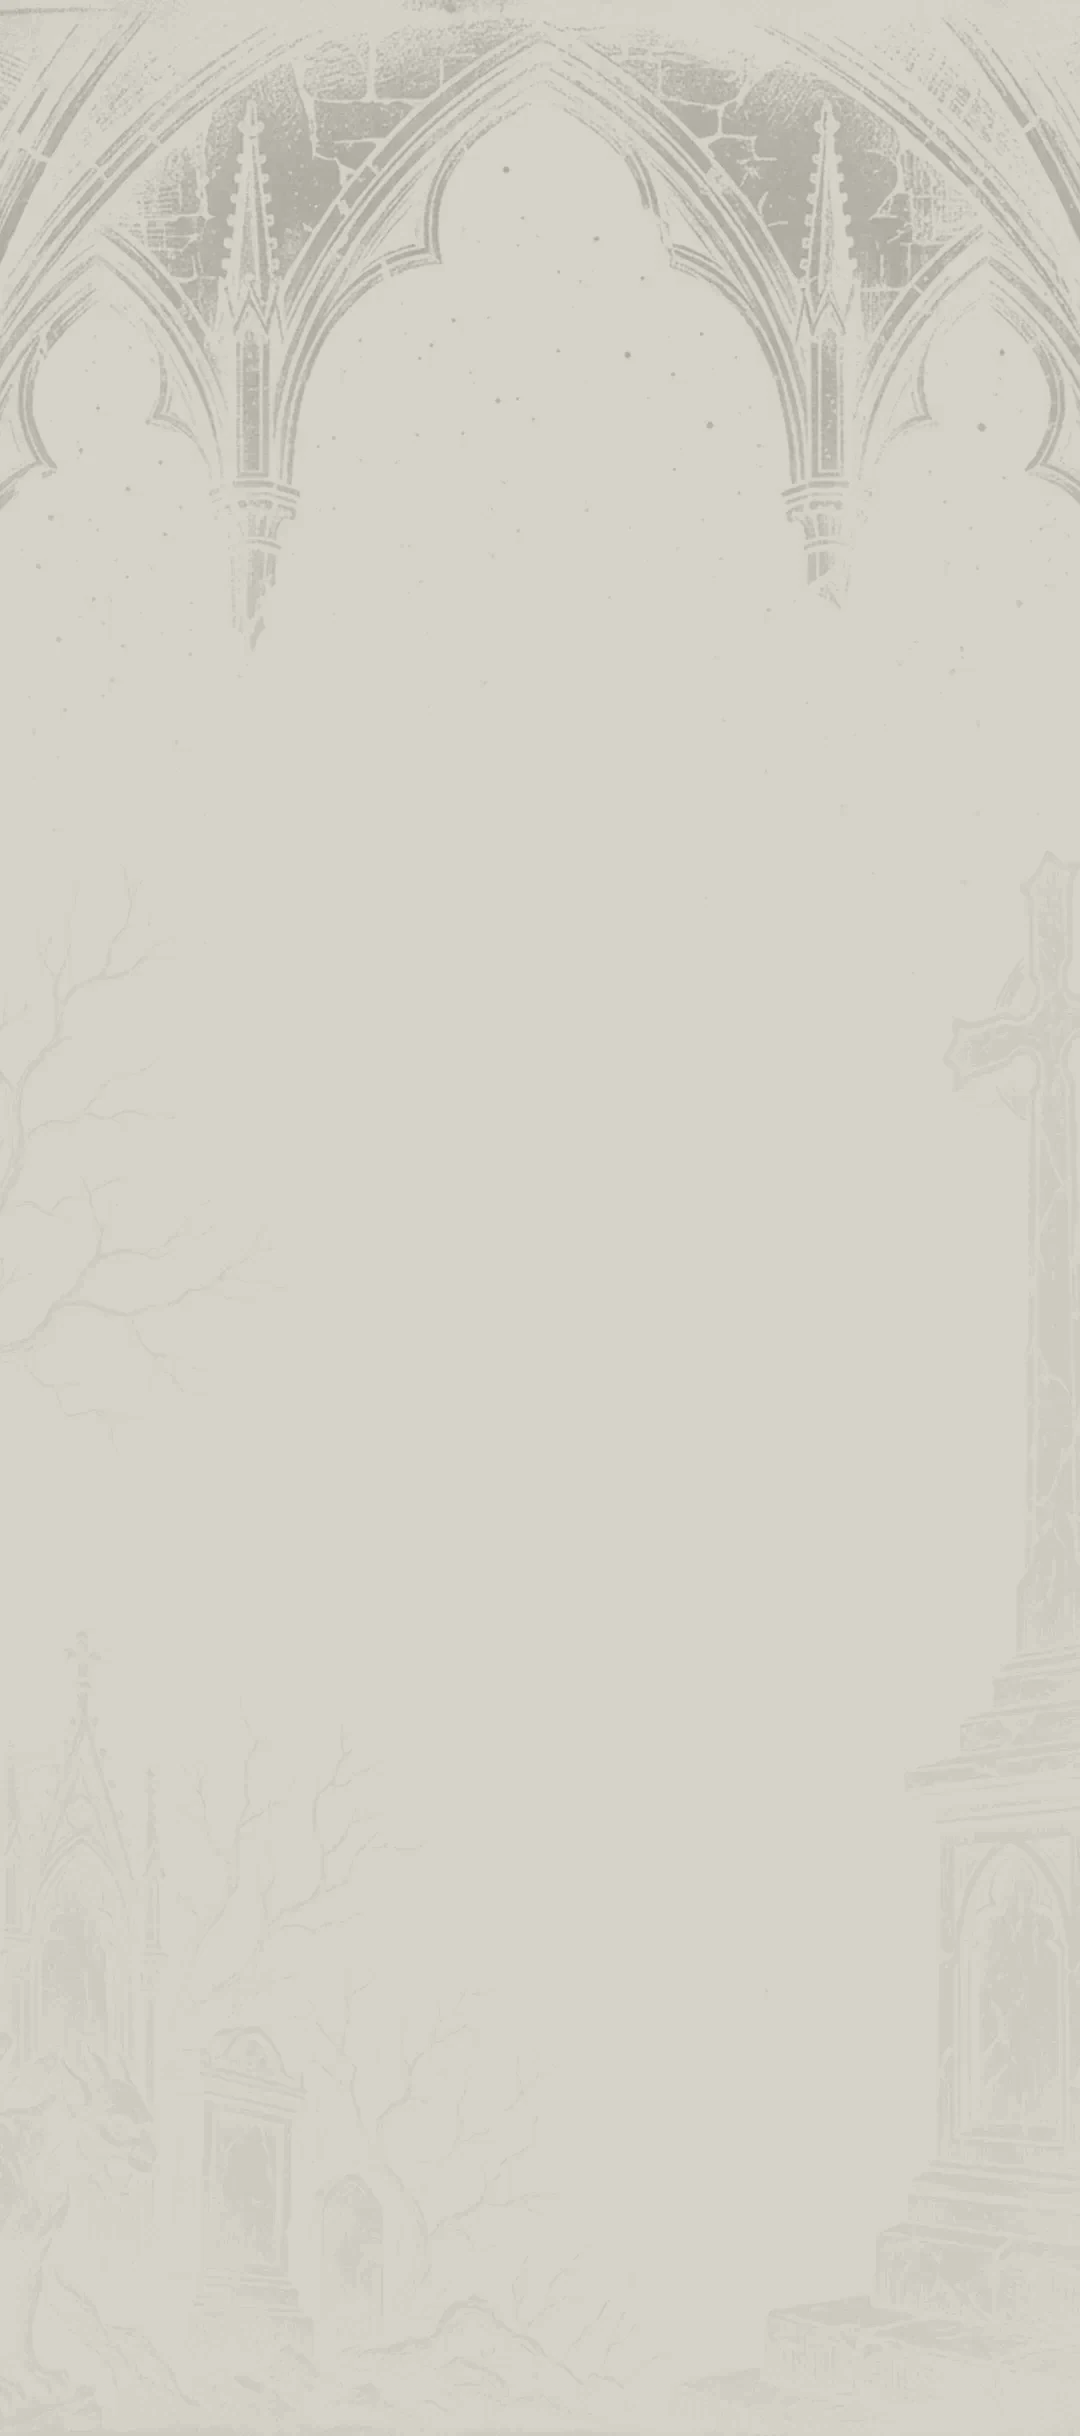
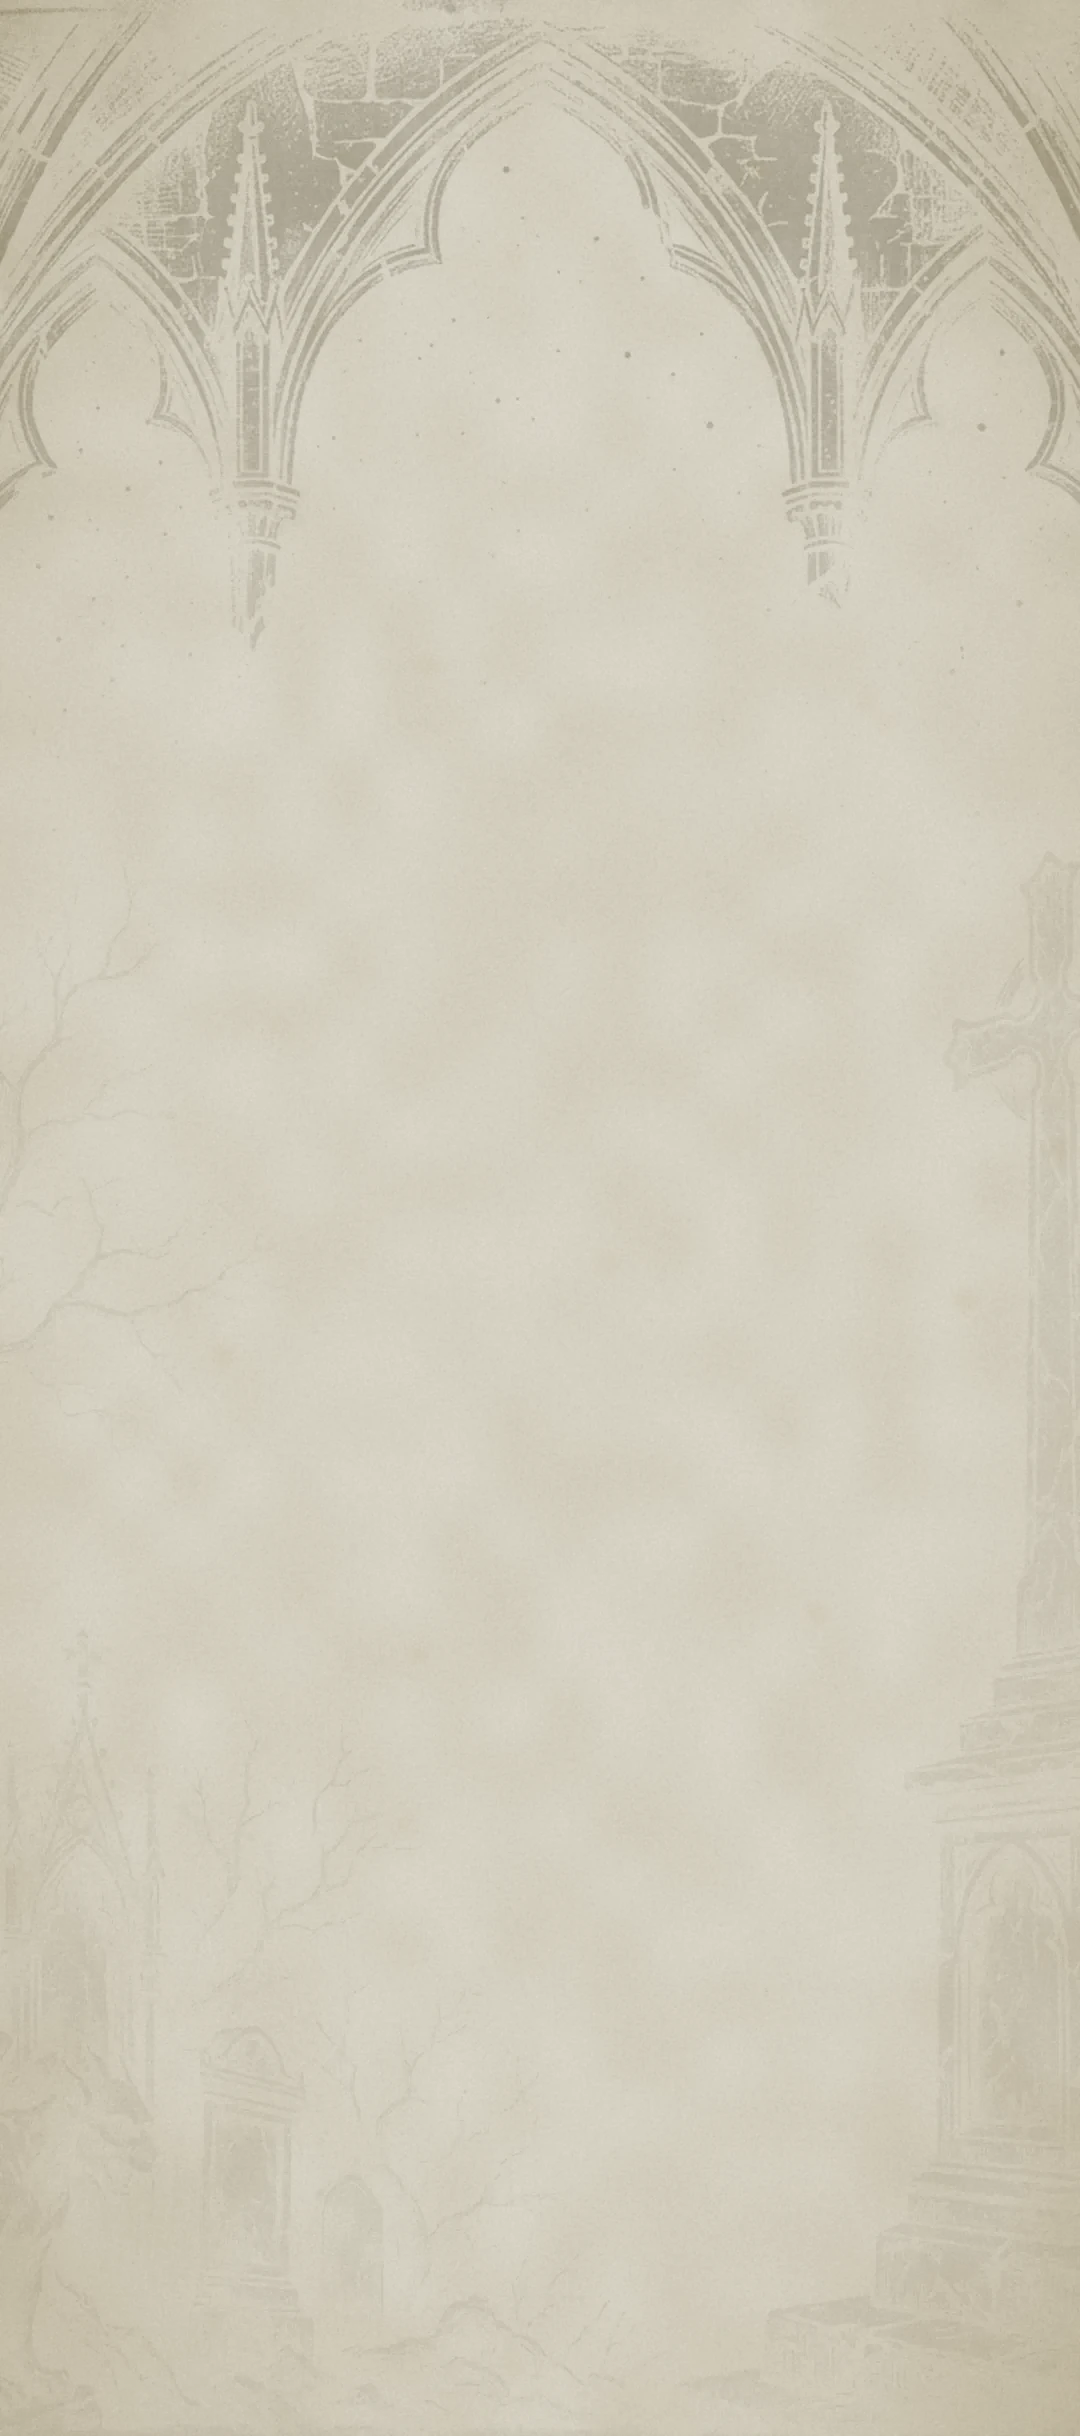
Player artists come up in a sheet; Satanic light pages are old paper
Several artists on the Satanic or Gothic player: a tap brings up a sheet of
them, top to bottom as in the line, each with a picture, opening the one
tapped (the catalog's artist, not always the first YouTube one). One artist
still opens at once.

Light Satanic: the paper a little yellower, and the background pictures are
old paper now — an uneven tone, browned edges, grain, a few foxing spots. The
bare tree over the player's "previous" button is gone.

diff --git a/app/src/main/kotlin/com/metrolist/music/ui/player/ArtistsSheet.kt b/app/src/main/kotlin/com/metrolist/music/ui/player/ArtistsSheet.kt
@@ -1,0 +1,128 @@
+/**
+ * Metrolist Project (C) 2026
+ * Licensed under GPL-3.0 | See git history for contributors
+ */
+
+package com.metrolist.music.ui.player
+
+import androidx.compose.foundation.background
+import androidx.compose.foundation.clickable
+import androidx.compose.foundation.layout.Box
+import androidx.compose.foundation.layout.Column
+import androidx.compose.foundation.layout.Row
+import androidx.compose.foundation.layout.Spacer
+import androidx.compose.foundation.layout.fillMaxWidth
+import androidx.compose.foundation.layout.navigationBarsPadding
+import androidx.compose.foundation.layout.padding
+import androidx.compose.foundation.layout.size
+import androidx.compose.foundation.layout.width
+import androidx.compose.foundation.shape.CircleShape
+import androidx.compose.material3.ExperimentalMaterial3Api
+import androidx.compose.material3.Icon
+import androidx.compose.material3.MaterialTheme
+import androidx.compose.material3.ModalBottomSheet
+import androidx.compose.material3.Text
+import androidx.compose.material3.rememberModalBottomSheetState
+import androidx.compose.runtime.Composable
+import androidx.compose.runtime.getValue
+import androidx.compose.runtime.produceState
+import androidx.compose.ui.Alignment
+import androidx.compose.ui.Modifier
+import androidx.compose.ui.draw.clip
+import androidx.compose.ui.layout.ContentScale
+import androidx.compose.ui.res.painterResource
+import androidx.compose.ui.res.stringResource
+import androidx.compose.ui.text.font.FontWeight
+import androidx.compose.ui.text.style.TextOverflow
+import androidx.compose.ui.unit.dp
+import coil3.compose.AsyncImage
+import com.metrolist.music.R
+import com.metrolist.music.models.MediaMetadata
+import com.metrolist.music.playback.SpotifyMetadataRegistry
+import com.metrolist.music.utils.SPOTIFY_ID_PREFIX
+import com.metrolist.music.utils.isSpotifyId
+import com.metrolist.music.utils.stripSpotifyPrefix
+import kotlinx.coroutines.Dispatchers
+import kotlinx.coroutines.withContext
+
+/**
+ * The artists of what plays, in the order the line shows them: the catalog track's (real ids)
+ * when it is known, else the item's own. Each is (name, id); the id may be missing.
+ */
+fun playerArtistLinks(mediaMetadata: MediaMetadata): List<Pair<String, String?>> =
+    mediaMetadata.id
+        ?.let { SpotifyMetadataRegistry.get(it) }
+        ?.artists
+        ?.filter { it.name.isNotBlank() }
+        ?.map { it.name to it.id?.let { id -> "$SPOTIFY_ID_PREFIX$id" } }
+        ?.takeIf { it.isNotEmpty() }
+        ?: mediaMetadata.artists.filter { it.name.isNotBlank() }.map { it.name to it.id }
+
+/** The page route of an artist id: a catalog artist's or a YouTube one's. */
+fun artistRoute(id: String): String =
+    if (id.isSpotifyId()) "spotify_artist/${id.stripSpotifyPrefix()}" else "artist/$id"
+
+/**
+ * The artists of a track from the bottom, as the share sheet comes up: top to bottom in the
+ * order they stand in the line, each with its picture; a tap opens that artist.
+ */
+@OptIn(ExperimentalMaterial3Api::class)
+@Composable
+fun ArtistsSheet(
+    artists: List<Pair<String, String?>>,
+    onOpen: (String) -> Unit,
+    onDismiss: () -> Unit,
+) {
+    val sheetState = rememberModalBottomSheetState(skipPartiallyExpanded = true)
+    ModalBottomSheet(onDismissRequest = onDismiss, sheetState = sheetState) {
+        Column(Modifier.fillMaxWidth().navigationBarsPadding().padding(bottom = 16.dp)) {
+            Text(
+                stringResource(R.string.artists),
+                style = MaterialTheme.typography.titleMedium,
+                modifier = Modifier.padding(horizontal = 24.dp, vertical = 4.dp),
+            )
+            Spacer(Modifier.size(8.dp))
+            artists.forEach { (name, id) ->
+                val picture by produceState<String?>(null, id) {
+                    val catalogId = id?.takeIf { it.isSpotifyId() }?.stripSpotifyPrefix() ?: return@produceState
+                    value = withContext(Dispatchers.IO) {
+                        com.metrolist.music.catalog.Catalog.artist(catalogId).getOrNull()?.images
+                            ?.let { imgs -> imgs.firstOrNull { (it.width ?: 0) in 120..400 } ?: imgs.firstOrNull() }?.url
+                    }
+                }
+                Row(
+                    verticalAlignment = Alignment.CenterVertically,
+                    modifier = Modifier
+                        .fillMaxWidth()
+                        .clickable(enabled = !id.isNullOrBlank()) { id?.let(onOpen) }
+                        .padding(horizontal = 24.dp, vertical = 10.dp),
+                ) {
+                    Box(
+                        contentAlignment = Alignment.Center,
+                        modifier = Modifier.size(48.dp).clip(CircleShape).background(MaterialTheme.colorScheme.surfaceContainerHigh),
+                    ) {
+                        Icon(painterResource(R.drawable.artist), contentDescription = null, tint = MaterialTheme.colorScheme.onSurfaceVariant)
+                        if (picture != null) {
+                            AsyncImage(
+                                model = picture,
+                                contentDescription = null,
+                                contentScale = ContentScale.Crop,
+                                modifier = Modifier.size(48.dp).clip(CircleShape),
+                            )
+                        }
+                    }
+                    Spacer(Modifier.width(16.dp))
+                    Text(
+                        name,
+                        style = MaterialTheme.typography.titleMedium,
+                        fontWeight = FontWeight.SemiBold,
+                        color = if (id.isNullOrBlank()) MaterialTheme.colorScheme.onSurfaceVariant else MaterialTheme.colorScheme.onSurface,
+                        maxLines = 1,
+                        overflow = TextOverflow.Ellipsis,
+                        modifier = Modifier.weight(1f),
+                    )
+                }
+            }
+        }
+    }
+}

diff --git a/app/src/main/kotlin/com/metrolist/music/ui/player/Player.kt b/app/src/main/kotlin/com/metrolist/music/ui/player/Player.kt
@@ -936,6 +936,18 @@ fun BottomSheetPlayer(
         val isLandscape = LocalConfiguration.current.orientation == Configuration.ORIENTATION_LANDSCAPE
         val controlsContent: @Composable ColumnScope.(MediaMetadata) -> Unit = controlsContent@{ mediaMetadata ->
             val preset = com.metrolist.music.ui.theme.LocalAppThemePreset.current
+            var artistsSheet by remember { mutableStateOf<List<Pair<String, String?>>?>(null) }
+            artistsSheet?.let { list ->
+                ArtistsSheet(
+                    artists = list,
+                    onOpen = { id ->
+                        artistsSheet = null
+                        state.collapseSoft()
+                        navController.navigate(artistRoute(id))
+                    },
+                    onDismiss = { artistsSheet = null },
+                )
+            }
             if (preset == com.metrolist.music.ui.theme.AppThemePreset.SATANIC) {
                 val shuffleModeEnabled by playerConnection.shuffleModeEnabled.collectAsState()
                 SatanicPlayerControls(
@@ -983,10 +995,16 @@ fun BottomSheetPlayer(
                         }
                     },
                     onArtistClick = {
-                        val artistId = mediaMetadata.artists.firstOrNull()?.id
-                        if (!artistId.isNullOrBlank()) {
-                            state.collapseSoft()
-                            navController.navigate("artist/$artistId")
+                        // One artist opens at once; several come up in a sheet, top to bottom as in the line.
+                        val links = playerArtistLinks(mediaMetadata)
+                        val withIds = links.filter { !it.second.isNullOrBlank() }
+                        if (links.size > 1 && withIds.isNotEmpty()) {
+                            artistsSheet = links
+                        } else {
+                            withIds.firstOrNull()?.second?.let { id ->
+                                state.collapseSoft()
+                                navController.navigate(artistRoute(id))
+                            }
                         }
                     },
                     onTitleLongClick = {
@@ -1049,10 +1067,16 @@ fun BottomSheetPlayer(
                         }
                     },
                     onArtistClick = {
-                        val artistId = mediaMetadata.artists.firstOrNull()?.id
-                        if (!artistId.isNullOrBlank()) {
-                            state.collapseSoft()
-                            navController.navigate("artist/$artistId")
+                        // One artist opens at once; several come up in a sheet, top to bottom as in the line.
+                        val links = playerArtistLinks(mediaMetadata)
+                        val withIds = links.filter { !it.second.isNullOrBlank() }
+                        if (links.size > 1 && withIds.isNotEmpty()) {
+                            artistsSheet = links
+                        } else {
+                            withIds.firstOrNull()?.second?.let { id ->
+                                state.collapseSoft()
+                                navController.navigate(artistRoute(id))
+                            }
                         }
                     },
                     onTitleLongClick = {

diff --git a/app/src/main/kotlin/com/metrolist/music/ui/theme/MonoThemes.kt b/app/src/main/kotlin/com/metrolist/music/ui/theme/MonoThemes.kt
@@ -120,8 +120,8 @@ internal val SatanicNight = Tone(
 // Day is an old yellowed satanic book: one paper for every page (the library background's), the
 // bars, cards and buttons in the mini player's older, yellower paper, all in black ink.
 internal val SatanicDay = Tone(
-    page = c(0xFFD6D3C9),
-    steps = listOf(c(0xFFDCD8CD), c(0xFFD4CFC2), c(0xFFD1CBBC), c(0xFFC9C3B3), c(0xFFC0BAA9)),
+    page = c(0xFFD4D0C0),
+    steps = listOf(c(0xFFD9D5C7), c(0xFFD3CEC0), c(0xFFD1CBBC), c(0xFFC9C3B3), c(0xFFC0BAA9)),
     ink = c(0xFF0A0A0A), inkSoft = c(0xFF3F3C36),
     accent = c(0xFF0A0A0A), onAccent = c(0xFFE3DFD3),
     accentContainer = c(0xFFB5AE9C), onAccentContainer = c(0xFF0A0A0A),

diff --git a/app/src/main/kotlin/com/metrolist/music/ui/theme/SatanicThemeConfig.kt b/app/src/main/kotlin/com/metrolist/music/ui/theme/SatanicThemeConfig.kt
@@ -35,7 +35,7 @@ object SatanicThemeConfig {
     val Accent = Color(0xFFD0D0D0)
 
     // Light Mode (SatanicDay - ash stone & aged parchment)
-    val LightBackground = Color(0xFFD6D3C9)
+    val LightBackground = Color(0xFFD4D0C0)
     val LightSurface = Color(0xFFD1CBBC)
     val LightElevated = Color(0xFFC9C3B3)
     val LightPrimaryText = Color(0xFF0A0A0A)
